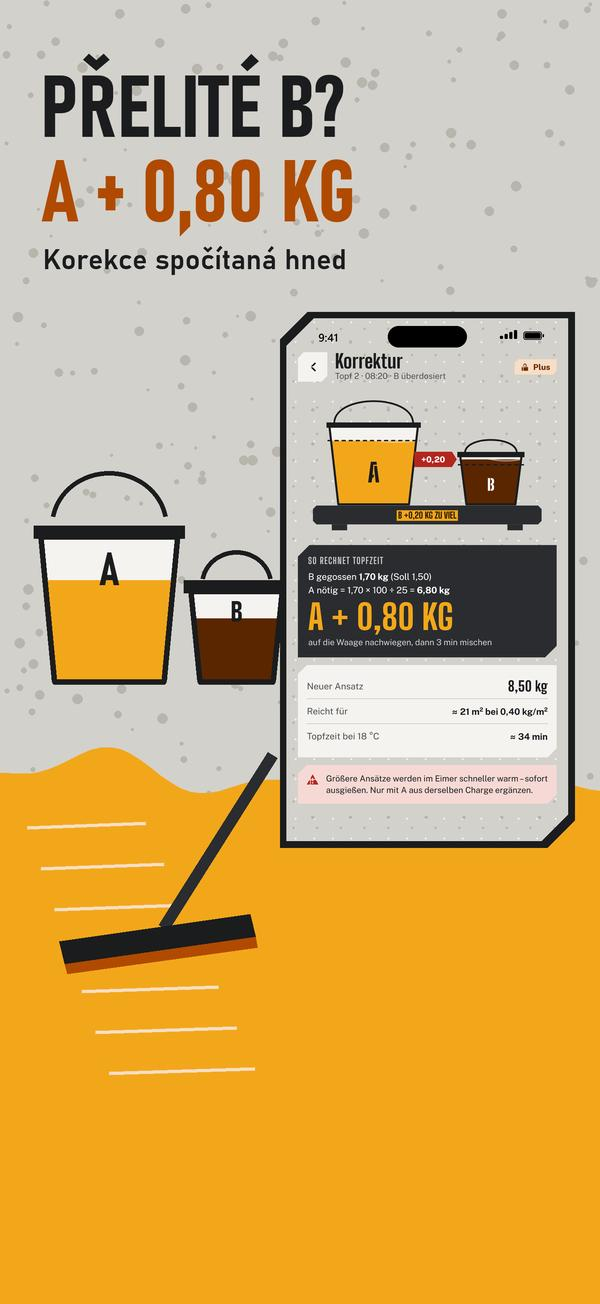
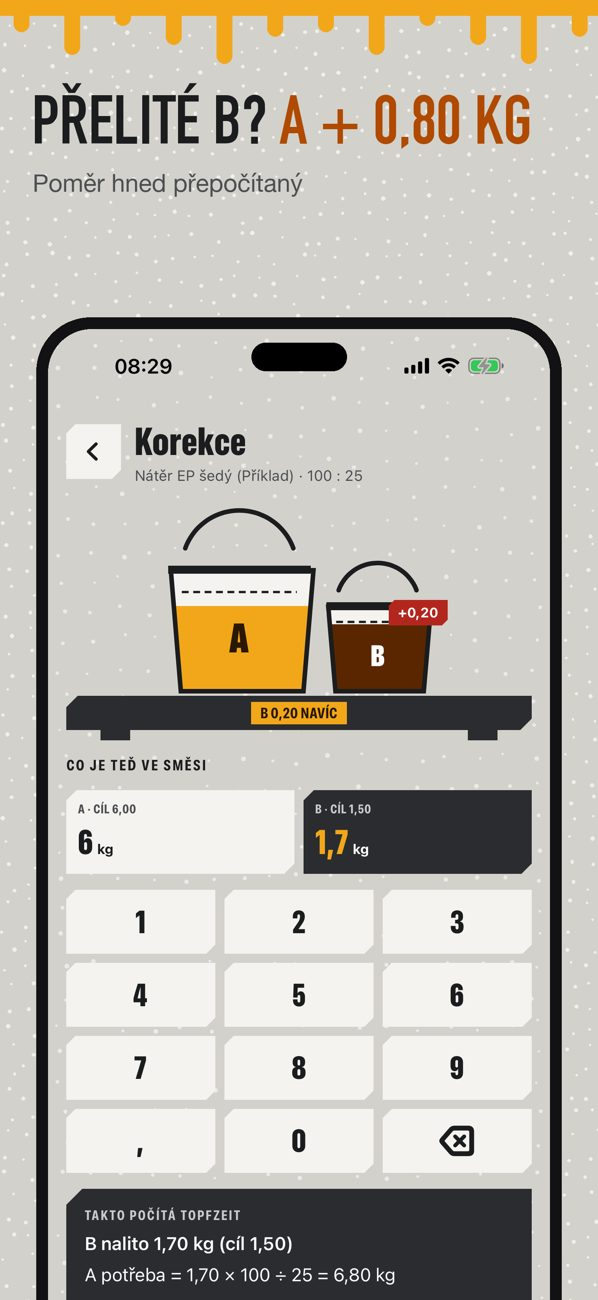
topfzeit-eu: pages match build 1.0.0 (no iCloud, no location/camera, no weather service)

diff --git a/topfzeit-eu/index.html b/topfzeit-eu/index.html
@@ -1,1 +1,1 @@
-<!doctype html><html lang='en'><head><meta charset='utf-8'><meta name='viewport' content='width=device-width,initial-scale=1'><title>Topfzeit – Privacy Policy</title><style>body{font:16px/1.6 -apple-system,system-ui,sans-serif;max-width:720px;margin:0 auto;padding:24px 16px;color:#1E1E1E;background:#F2EFE8;overflow-wrap:anywhere}a{color:#E2A400}h1{font-size:28px;line-height:1.15}h2{font-size:18px;margin-top:24px}h3{font-size:16px;margin-bottom:0}section{border-top:2px solid #1E1E1E;margin-top:32px}nav a{margin-right:12px}.btn{display:inline-block;background:#E2A400;color:#fff;text-decoration:none;padding:12px 20px;font-weight:700;border-radius:12px}.shots{display:flex;gap:12px;overflow-x:auto;margin:24px 0}.shots img{width:200px;flex:none;border-radius:14px}@media (prefers-color-scheme:dark){body{background:#121417;color:#ECEDEE}a{color:#8FC2E8}section{border-color:#3A4048}}</style></head><body><nav><a href='#en'>English</a><a href='#de'>Deutsch</a><a href='#nl'>Nederlands</a><a href='#pl'>Polski</a><a href='#cs'>Čeština</a></nav><section id='en' lang='en'><h1>Privacy Policy – Topfzeit</h1><p><em>2026-11-23</em></p><h2>Summary</h2><p>Topfzeit has no account and no server of ours. Your data stays on your device and in your private iCloud. The only data that can reach us is anonymous usage statistics, which you can switch off.</p><h2>Your data</h2><p>Your products you enter from data sheets, sites, mixes, measurements, photos and condition reports (PDF) are stored on your device and in your private iCloud (Apple CloudKit), so they sync between your own devices. If you share an item through iCloud, only the people you invite can see it. Nothing is uploaded to us. Deleting the app deletes the data on that device; iCloud data can be removed in the iOS Settings app.</p><h2>Permissions</h2><p>Location (optional, only while in use): to load the outdoor weather of the site from Apple WeatherKit; the location stays on the device and is not sent to us. Weather data: Apple Weather. Camera (optional): to read a mixing ratio from a product label (Live Text, the image is not stored) or to take a photo for the report. Notifications (optional): local timers for pot life and recoat windows; no push server.</p><h2>Usage statistics</h2><p>We use Google Analytics for Firebase (without the advertising identifier), provided by Google Ireland Ltd. It collects which screens and buttons are used, in-app purchase events, the approximate country/region Google derives from the IP address, and basic technical data (app and iOS version, device model). Events never contain site names, places, batch numbers, measurements or photos. The data is not linked to your identity and not used for tracking or advertising; Google processes it for us and keeps it for at most 14 months. Legal basis: our legitimate interest in improving the app (Art. 6(1)(f) GDPR); Google may process data in the USA under the EU-US Data Privacy Framework. See <a href='https://policies.google.com/privacy'>Google's Privacy Policy</a>. Switch it off in the app: Settings › Usage statistics.</p><h2>Purchases</h2><p>Topfzeit Plus is an auto-renewable subscription handled by Apple via the App Store. We receive no payment details; the app only asks Apple whether the purchase is active. See <a href='https://www.apple.com/legal/privacy/'>Apple's Privacy Policy</a>.</p><h2>Independence</h2><p>Topfzeit is an independent tool and contains no manufacturer data; the product's technical data sheet always prevails.</p><h2>Your rights and contact</h2><p>You can delete any item in the app at any time; deleting the app removes everything stored on the device. You can object to the usage statistics at any time by switching them off (Art. 21 GDPR). Questions: <a href='mailto:utqsall@gmail.com'>utqsall@gmail.com</a>. Controller: Mustafa Utku Bayık (BaytechBV).</p></section><section id='de' lang='de'><h1>Datenschutz – Topfzeit</h1><p><em>2026-11-23</em></p><p>Topfzeit hat kein Konto und keinen Server von uns. Deine Daten bleiben auf deinem Gerät und in deiner privaten iCloud (Apple). Wir nutzen Google Analytics für Firebase (ohne Werbe-ID) für anonyme Nutzungsstatistik: genutzte Bildschirme und Tasten, Kauf-Ereignisse, ungefähres Land/Region, technische Daten. Nicht mit dir verknüpft, kein Tracking, höchstens 14 Monate gespeichert; Rechtsgrundlage Art. 6 Abs. 1 lit. f DSGVO. Abschalten: Einstellungen › Nutzungsstatistik. Käufe laufen über Apple; wir erhalten keine Zahlungsdaten. Fragen: <a href='mailto:utqsall@gmail.com'>utqsall@gmail.com</a>.</p></section><section id='nl' lang='nl'><h1>Privacy – Topfzeit</h1><p><em>2026-11-23</em></p><p>Topfzeit heeft geen account en geen server van ons. Je gegevens blijven op je toestel en in je eigen iCloud (Apple). We gebruiken Google Analytics for Firebase (zonder advertentie-ID) voor anonieme gebruiksstatistiek: gebruikte schermen en knoppen, aankoopgebeurtenissen, globaal land/regio, technische gegevens. Niet aan jou gekoppeld, geen tracking, maximaal 14 maanden bewaard; grondslag art. 6 lid 1 sub f AVG. Uitzetten: Instellingen › Gebruiksstatistiek. Aankopen lopen via Apple; wij ontvangen geen betaalgegevens. Vragen: <a href='mailto:utqsall@gmail.com'>utqsall@gmail.com</a>.</p></section><section id='pl' lang='pl'><h1>Prywatność – Topfzeit</h1><p><em>2026-11-23</em></p><p>Topfzeit nie ma konta ani naszego serwera. Twoje dane zostają na urządzeniu i w Twoim prywatnym iCloud (Apple). Używamy Google Analytics for Firebase (bez identyfikatora reklamowego) do anonimowych statystyk: używane ekrany i przyciski, zdarzenia zakupu, przybliżony kraj/region, dane techniczne. Niepowiązane z Tobą, bez śledzenia, przechowywane maks. 14 miesięcy; podstawa art. 6 ust. 1 lit. f RODO. Wyłącz: Ustawienia › Statystyki użycia. Zakupy obsługuje Apple; nie otrzymujemy danych płatniczych. Pytania: <a href='mailto:utqsall@gmail.com'>utqsall@gmail.com</a>.</p></section><section id='cs' lang='cs'><h1>Ochrana soukromí – Topfzeit</h1><p><em>2026-11-23</em></p><p>Topfzeit nemá účet ani náš server. Tvoje data zůstávají v zařízení a ve tvém soukromém iCloudu (Apple). Používáme Google Analytics for Firebase (bez reklamního identifikátoru) pro anonymní statistiky: použité obrazovky a tlačítka, události nákupu, přibližná země/region, technická data. Nepropojeno s tebou, žádné sledování, uchování nejvýše 14 měsíců; právní základ čl. 6 odst. 1 písm. f GDPR. Vypnutí: Nastavení › Statistiky používání. Nákupy vyřizuje Apple; platební údaje nedostáváme. Dotazy: <a href='mailto:utqsall@gmail.com'>utqsall@gmail.com</a>.</p></section><p><a href='support/'>Support</a> · <a href='app/'>Topfzeit</a></p></body></html>
+<!doctype html><html lang='en'><head><meta charset='utf-8'><meta name='viewport' content='width=device-width,initial-scale=1'><title>Topfzeit – Privacy</title><style>body{font:16px/1.6 -apple-system,system-ui,sans-serif;max-width:720px;margin:0 auto;padding:24px 16px;color:#1B1C1E;background:#D3D1CB;overflow-wrap:anywhere}a{color:#8E3A00}h1{font:800 30px/1.1 'Arial Narrow',sans-serif;letter-spacing:.2px}h2{font-size:17px;margin-top:24px;text-transform:uppercase;letter-spacing:1px}section{background:#F4F3EF;padding:4px 18px 16px;margin-top:24px;clip-path:polygon(12px 0,100% 0,100% calc(100% - 12px),calc(100% - 12px) 100%,0 100%,0 12px)}nav a{margin-right:12px}.note{background:#F7DEC6;padding:10px 12px}.btn{display:inline-block;background:#B04A00;color:#fff;text-decoration:none;padding:12px 20px;font-weight:800}.shots{display:flex;gap:12px;overflow-x:auto;margin:16px 0}.shots img{width:200px;flex:none}@media (prefers-color-scheme:dark){body{background:#151617;color:#ECEBE6}section{background:#212326}a{color:#F5B866}.note{background:#4A2A10}}</style></head><body><nav><a href='#de'>Deutsch</a><a href='#nl'>Nederlands</a><a href='#pl'>Polski</a><a href='#cs'>Čeština</a><a href='#en'>English</a></nav><section id='de' lang='de'><h1>Datenschutzerklärung – Topfzeit</h1><p><em>Zuletzt aktualisiert: 2026-11-24</em></p><h2>Kurz gesagt</h2><p>Topfzeit hat kein Konto und keinen Server von uns. Produkte, Baustellen, Messungen, Töpfe, Fotos und Protokolle bleiben auf deinem iPhone. Bei uns kommt nur eine anonyme Nutzungsstatistik an, die du abschalten kannst.</p><h2>Deine Daten</h2><p>Alles, was du einträgst (Produktwerte aus Datenblättern, Baustellen, Messungen, Mischungen, Korrekturen, Fotos, Unterschrift, Protokolle), wird nur lokal auf dem iPhone gespeichert. Es gibt keine Synchronisierung, keine iCloud-Ablage durch die App und keinen Upload. Die App löscht die Daten, wenn du sie in den Einstellungen löschst oder die App entfernst. Ein PDF-Protokoll oder eine Einkaufsliste teilst nur du selbst.</p><h2>Berechtigungen</h2><p>Topfzeit fragt nicht nach Standort, Kamera, Kontakten oder Mediathek-Zugriff. Fotos für das Protokoll wählst du über die Systemauswahl (nur die gewählten Bilder werden übernommen). Mitteilungen (optional) sind lokale Erinnerungen für Topfzeit-Ende, Wartezeiten und neue Messungen; es gibt keinen Push-Server. Topfzeit nutzt keinen Wetterdienst.</p><h2>Nutzungsstatistik</h2><p>Wir nutzen Google Analytics for Firebase (ohne Werbe-ID), bereitgestellt von Google Ireland Ltd. Erfasst werden: eine zufällige App-Instanz-ID, welche Bildschirme und Schaltflächen genutzt werden, Schritte in der App (z. B. Topf gestartet, Messung gespeichert mit Ergebnis Freigabe/Stopp), Kauf-Ereignisse, der ungefähre Standort (Land/Region), den Google aus der IP-Adresse ableitet, sowie technische Daten (App- und iOS-Version, Gerätemodell). Die Ereignisse enthalten nie Baustellennamen, Orte, Chargen, Produktnamen, Messwerte oder Fotos. Die Daten sind nicht mit dir verknüpft und werden nicht für Tracking oder Werbung genutzt; Google speichert sie für uns höchstens 14 Monate. Rechtsgrundlage: berechtigtes Interesse an der Verbesserung der App (Art. 6 Abs. 1 lit. f DSGVO); Google kann Daten in den USA unter dem EU-US Data Privacy Framework verarbeiten. Abschalten: Einstellungen › Anonyme Nutzungsstatistik. <a href='https://policies.google.com/privacy'>Google</a></p><h2>Käufe</h2><p>Das Abo Topfzeit Plus wickelt Apple ab. Wir erhalten keine Zahlungsdaten; die App fragt bei Apple nur ab, ob ein Abo aktiv ist. Kündigen: Einstellungen › Apple-ID › Abonnements.</p><h2>Rechte und Kontakt</h2><p>Du kannst der Nutzungsstatistik jederzeit widersprechen, indem du sie abschaltest (Art. 21 DSGVO). Fragen: <a href='mailto:utqsall@gmail.com'>utqsall@gmail.com</a>. Verantwortlich: Mustafa Utku Bayık (BaytechBV).</p><p class='note'>Topfzeit enthält keine Herstellerdaten. Das technische Datenblatt und das Sicherheitsdatenblatt deines Produkts haben immer Vorrang; die Korrektur ist reine Verhältnisrechnung.</p></section><section id='nl' lang='nl'><h1>Privacybeleid – Topfzeit</h1><p><em>Laatst bijgewerkt: 2026-11-24</em></p><h2>In het kort</h2><p>Topfzeit heeft geen account en geen server van ons. Producten, projecten, metingen, potten, foto's en rapporten blijven op je iPhone. Bij ons komen alleen anonieme gebruiksstatistieken aan, die je kunt uitzetten.</p><h2>Je gegevens</h2><p>Alles wat je invoert (productwaarden uit technische bladen, projecten, metingen, mengsels, correcties, foto's, handtekening, rapporten) wordt alleen lokaal op de iPhone bewaard. Er is geen synchronisatie, geen iCloud-opslag door de app en geen upload. Een pdf-rapport of boodschappenlijst deel alleen jij.</p><h2>Toestemmingen</h2><p>Topfzeit vraagt geen toegang tot locatie, camera, contacten of fotobibliotheek. Foto's voor het rapport kies je via de systeemkiezer. Meldingen (optioneel) zijn lokale herinneringen voor einde verwerkingstijd, wachttijden en nieuwe metingen; er is geen pushserver. Topfzeit gebruikt geen weerdienst.</p><h2>Gebruiksstatistieken</h2><p>We gebruiken Google Analytics for Firebase (zonder advertentie-ID), geleverd door Google Ireland Ltd. Het verzamelt: een willekeurige app-instantie-ID, welke schermen en knoppen worden gebruikt, stappen in de app (bijv. pot gestart, meting bewaard met resultaat), aankoopgebeurtenissen, de geschatte locatie (land/regio) die Google afleidt uit het IP-adres, en technische gegevens (app- en iOS-versie, toestelmodel). Gebeurtenissen bevatten nooit projectnamen, plaatsen, charges, productnamen, meetwaarden of foto's. De gegevens zijn niet aan jou gekoppeld en worden niet gebruikt voor tracking of advertenties; Google bewaart ze voor ons maximaal 14 maanden. Grondslag: gerechtvaardigd belang (art. 6 lid 1 sub f AVG); Google kan gegevens in de VS verwerken onder het EU-VS Data Privacy Framework. Uitzetten: Instellingen › Anonieme gebruiksstatistiek. <a href='https://policies.google.com/privacy'>Google</a></p><h2>Aankopen</h2><p>Het abonnement Topfzeit Plus loopt via Apple. Wij ontvangen geen betaalgegevens. Opzeggen: Instellingen › Apple ID › Abonnementen.</p><h2>Rechten en contact</h2><p>Je kunt altijd bezwaar maken tegen de statistieken door ze uit te zetten (art. 21 AVG). Vragen: <a href='mailto:utqsall@gmail.com'>utqsall@gmail.com</a>. Verwerkingsverantwoordelijke: Mustafa Utku Bayık (BaytechBV).</p><p class='note'>Topfzeit bevat geen fabrikantgegevens. Het technisch blad en het veiligheidsinformatieblad van je product gaan altijd voor; de correctie is alleen verhoudingsrekenen.</p></section><section id='pl' lang='pl'><h1>Polityka prywatności – Topfzeit</h1><p><em>Ostatnia aktualizacja: 2026-11-24</em></p><h2>W skrócie</h2><p>Topfzeit nie ma konta ani naszego serwera. Produkty, budowy, pomiary, mieszanki, zdjęcia i protokoły zostają na twoim iPhonie. Do nas trafiają tylko anonimowe statystyki, które możesz wyłączyć.</p><h2>Twoje dane</h2><p>Wszystko, co wpisujesz (wartości z kart technicznych, budowy, pomiary, mieszanki, korekty, zdjęcia, podpis, protokoły), jest zapisywane tylko lokalnie na iPhonie. Brak synchronizacji, brak zapisu w iCloud przez aplikację i brak wysyłania. Protokół PDF lub listę zakupów udostępniasz tylko ty.</p><h2>Uprawnienia</h2><p>Topfzeit nie prosi o lokalizację, aparat, kontakty ani dostęp do biblioteki zdjęć. Zdjęcia do protokołu wybierasz systemowym selektorem. Powiadomienia (opcjonalnie) to lokalne przypomnienia o końcu czasu przydatności, przerwach i pomiarach; brak serwera push. Topfzeit nie korzysta z serwisu pogodowego.</p><h2>Statystyki użycia</h2><p>Korzystamy z Google Analytics for Firebase (bez identyfikatora reklamowego), dostarczanego przez Google Ireland Ltd. Zbierane są: losowy identyfikator instancji aplikacji, używane ekrany i przyciski, kroki w aplikacji (np. start mieszanki, zapis pomiaru z wynikiem), zdarzenia zakupów, przybliżona lokalizacja (kraj/region) z adresu IP oraz dane techniczne (wersja aplikacji i iOS, model urządzenia). Zdarzenia nigdy nie zawierają nazw budów, miejsc, partii, nazw produktów, wartości pomiarów ani zdjęć. Dane nie są powiązane z tobą i nie służą do śledzenia ani reklam; Google przechowuje je maksymalnie 14 miesięcy. Podstawa: prawnie uzasadniony interes (art. 6 ust. 1 lit. f RODO); Google może przetwarzać dane w USA w ramach EU-US Data Privacy Framework. Wyłączenie: Ustawienia › Anonimowe statystyki użycia. <a href='https://policies.google.com/privacy'>Google</a></p><h2>Zakupy</h2><p>Subskrypcję Topfzeit Plus obsługuje Apple. Nie otrzymujemy danych płatniczych. Anulowanie: Ustawienia › Apple ID › Subskrypcje.</p><h2>Prawa i kontakt</h2><p>Możesz w każdej chwili sprzeciwić się statystykom, wyłączając je (art. 21 RODO). Pytania: <a href='mailto:utqsall@gmail.com'>utqsall@gmail.com</a>. Administrator: Mustafa Utku Bayık (BaytechBV).</p><p class='note'>Topfzeit nie zawiera danych producentów. Karta techniczna i karta charakterystyki produktu mają zawsze pierwszeństwo; korekta to wyłącznie rachunek proporcji.</p></section><section id='cs' lang='cs'><h1>Zásady ochrany soukromí – Topfzeit</h1><p><em>Naposledy aktualizováno: 2026-11-24</em></p><h2>Stručně</h2><p>Topfzeit nemá účet ani náš server. Produkty, stavby, měření, směsi, fotky a protokoly zůstávají v tvém iPhonu. K nám se dostává jen anonymní statistika používání, kterou můžeš vypnout.</p><h2>Tvá data</h2><p>Vše, co zadáš (hodnoty z technických listů, stavby, měření, směsi, korekce, fotky, podpis, protokoly), se ukládá jen místně v iPhonu. Žádná synchronizace, žádné ukládání do iCloudu aplikací a žádné nahrávání. Protokol PDF nebo nákupní seznam sdílíš jen ty.</p><h2>Oprávnění</h2><p>Topfzeit nežádá o polohu, fotoaparát, kontakty ani přístup ke knihovně fotek. Fotky do protokolu vybíráš systémovým výběrem. Oznámení (volitelná) jsou místní připomínky konce zpracovatelnosti, čekacích dob a měření; žádný push server. Topfzeit nepoužívá službu počasí.</p><h2>Statistika používání</h2><p>Používáme Google Analytics for Firebase (bez reklamního identifikátoru) od Google Ireland Ltd. Sbírá se: náhodný identifikátor instance aplikace, používané obrazovky a tlačítka, kroky v aplikaci (např. spuštění směsi, uložení měření s výsledkem), události nákupů, přibližná poloha (země/region) odvozená z IP adresy a technická data (verze aplikace a iOS, model zařízení). Události nikdy neobsahují názvy staveb, místa, šarže, názvy produktů, naměřené hodnoty ani fotky. Data nejsou spojena s tebou a neslouží ke sledování ani reklamě; Google je pro nás uchovává nejvýše 14 měsíců. Právní základ: oprávněný zájem (čl. 6 odst. 1 písm. f GDPR); Google může data zpracovávat v USA v rámci EU-US Data Privacy Framework. Vypnutí: Nastavení › Anonymní statistika používání. <a href='https://policies.google.com/privacy'>Google</a></p><h2>Nákupy</h2><p>Předplatné Topfzeit Plus vyřizuje Apple. Nedostáváme platební údaje. Zrušení: Nastavení › Apple ID › Předplatná.</p><h2>Práva a kontakt</h2><p>Proti statistice můžeš kdykoli vznést námitku jejím vypnutím (čl. 21 GDPR). Dotazy: <a href='mailto:utqsall@gmail.com'>utqsall@gmail.com</a>. Správce: Mustafa Utku Bayık (BaytechBV).</p><p class='note'>Topfzeit neobsahuje data výrobců. Technický a bezpečnostní list tvého produktu mají vždy přednost; korekce je jen výpočet poměru.</p></section><section id='en' lang='en'><h1>Privacy Policy – Topfzeit</h1><p><em>Last updated: 2026-11-24</em></p><h2>Summary</h2><p>Topfzeit has no account and no server of ours. Products, sites, measurements, pots, photos and protocols stay on your iPhone. The only data that reaches us is anonymous usage statistics, which you can switch off.</p><h2>Your data</h2><p>Everything you enter (product values from data sheets, sites, measurements, mixes, corrections, photos, signature, protocols) is stored only locally on the iPhone. There is no sync, no iCloud storage by the app and no upload. Only you share a PDF protocol or shopping list.</p><h2>Permissions</h2><p>Topfzeit does not ask for location, camera, contacts or photo library access. You pick protocol photos with the system picker. Notifications (optional) are local reminders for pot-life end, recoat windows and re-measuring; there is no push server. Topfzeit uses no weather service.</p><h2>Usage statistics</h2><p>We use Google Analytics for Firebase (without the advertising identifier), provided by Google Ireland Ltd. It collects: a random app instance ID, which screens and buttons are used, steps in the app (e.g. pot started, measurement saved with result clear/stop), purchase events, the approximate location (country/region) Google derives from the IP address, and technical data (app and iOS version, device model). Events never contain site names, places, batches, product names, measured values or photos. The data is not linked to you and not used for tracking or advertising; Google keeps it for us for at most 14 months. Legal basis: legitimate interest (Art. 6(1)(f) GDPR); Google may process data in the USA under the EU-US Data Privacy Framework. Switch off: Settings › Anonymous usage statistics. <a href='https://policies.google.com/privacy'>Google</a></p><h2>Purchases</h2><p>The Topfzeit Plus subscription is handled by Apple. We receive no payment details. Cancel: Settings › Apple ID › Subscriptions.</p><h2>Rights and contact</h2><p>You can object to the statistics at any time by switching them off (Art. 21 GDPR). Questions: <a href='mailto:utqsall@gmail.com'>utqsall@gmail.com</a>. Controller: Mustafa Utku Bayık (BaytechBV).</p><p class='note'>Topfzeit contains no manufacturer data. Your product's technical data sheet and safety data sheet always take precedence; the correction is ratio arithmetic only.</p></section></body></html>

diff --git a/topfzeit-eu/app/index.html b/topfzeit-eu/app/index.html
@@ -1,1 +1,1 @@
-<!doctype html><html lang='de'><head><meta charset='utf-8'><meta name='viewport' content='width=device-width,initial-scale=1'><title>Topfzeit – Bodenbeschichtung</title><meta name='description' content='Harz und Härter auf das Gramm, Korrektur bei zu viel Härter, Taupunkt + 3 K geprüft und ein Protokoll als PDF – für Beschichter und Bodenleger auf der Baustelle.'><style>body{font:16px/1.6 -apple-system,system-ui,sans-serif;max-width:720px;margin:0 auto;padding:24px 16px;color:#1E1E1E;background:#F2EFE8;overflow-wrap:anywhere}a{color:#E2A400}h1{font-size:28px;line-height:1.15}h2{font-size:18px;margin-top:24px}h3{font-size:16px;margin-bottom:0}section{border-top:2px solid #1E1E1E;margin-top:32px}nav a{margin-right:12px}.btn{display:inline-block;background:#E2A400;color:#fff;text-decoration:none;padding:12px 20px;font-weight:700;border-radius:12px}.shots{display:flex;gap:12px;overflow-x:auto;margin:24px 0}.shots img{width:200px;flex:none;border-radius:14px}@media (prefers-color-scheme:dark){body{background:#121417;color:#ECEDEE}a{color:#8FC2E8}section{border-color:#3A4048}}</style></head><body><nav><a href='#de'>Deutsch</a><a href='#nl'>Nederlands</a><a href='#pl'>Polski</a><a href='#cs'>Čeština</a></nav><section id='de' lang='de'><h1>Topfzeit – Bodenbeschichtung</h1><p><strong>Mischen, Taupunkt, Protokoll</strong></p><p>Topfzeit ist das Werkzeug für Epoxid-, PU- und 3K-Bodenbeschichtungen. Du trägst die Werte aus deinem Datenblatt ein – Mischungsverhältnis, Topfzeit, Verbrauch, Wartezeiten – und Topfzeit rechnet auf der Baustelle mit: wie viel A und B für das ganze Gebinde oder eine Teilmenge, was zu tun ist, wenn eine Komponente überdosiert wurde, ob die Oberfläche mindestens 3 K über dem Taupunkt liegt und wann die nächste Schicht kommen darf.</p><div class='shots'><img src='de-1.jpg' alt='Topfzeit 1' loading='lazy'><img src='de-2.jpg' alt='Topfzeit 2' loading='lazy'><img src='de-3.jpg' alt='Topfzeit 3' loading='lazy'></div><ul><li>Mischen nach Gewicht oder Volumen, ganzes Gebinde oder Teilmenge, auch A : B : C</li><li>Korrektur: zu viel B gegossen? Topfzeit sagt, wie viel A dazukommt</li><li>Topfzeit-Timer mit Live-Aktivität und Temperatur-Faustregel</li><li>Taupunkt nach Magnus: Luft, Feuchte, Oberfläche, Abstand ≥ 3 K</li><li>Außenwetter und 24-Stunden-Fenster für unbeheizte Hallen und Außenflächen</li><li>Verbrauch je Schicht: kg/m², Gebinde, Quarzsand, Nassfilm</li><li>Wartezeiten zwischen den Schichten mit Wecker</li><li>Ausführungsprotokoll als PDF mit Bedingungen, Chargen und Fotos</li></ul><p><strong>Bald im App Store</strong></p><p><a href='../support/'>Hilfe</a> · <a href='../'>Datenschutz</a></p></section><section id='nl' lang='nl'><h1>Topfzeit – Vloercoating</h1><p><strong>Mengen, dauwpunt en rapport</strong></p><p>Topfzeit is het gereedschap voor epoxy-, PU- en 3K-vloercoatings. Je vult de waarden uit je technisch blad in – mengverhouding, verwerkingstijd, verbruik, wachttijden – en Topfzeit rekent op de bouwplaats mee: hoeveel A en B voor de hele verpakking of een deel, wat te doen als een component te veel is gegoten, of de ondergrond minstens 3 K boven het dauwpunt ligt en wanneer de volgende laag mag.</p><div class='shots'><img src='nl-1.jpg' alt='Topfzeit 1' loading='lazy'><img src='nl-2.jpg' alt='Topfzeit 2' loading='lazy'><img src='nl-3.jpg' alt='Topfzeit 3' loading='lazy'></div><ul><li>Mengen op gewicht of volume, hele verpakking of deel, ook A : B : C</li><li>Correctie: te veel B gegoten? Topfzeit zegt hoeveel A erbij moet</li><li>Verwerkingstimer met live-activiteit en vuistregel voor temperatuur</li><li>Dauwpunt volgens Magnus: lucht, vocht, ondergrond, marge ≥ 3 K</li><li>Buitenweer en 24-uursvenster voor onverwarmde hallen en buitenvloeren</li><li>Verbruik per laag: kg/m², verpakkingen, kwartszand, natte laag</li><li>Wachttijden tussen lagen met wekker</li><li>Uitvoeringsrapport als pdf met omstandigheden, charges en foto&#x27;s</li></ul><p><strong>Binnenkort in de App Store</strong></p><p><a href='../support/'>Hulp</a> · <a href='../'>Privacy</a></p></section><section id='pl' lang='pl'><h1>Topfzeit – posadzki żywiczne</h1><p><strong>Mieszanie, punkt rosy, raport</strong></p><p>Topfzeit to narzędzie do posadzek epoksydowych, poliuretanowych i 3K. Wpisujesz wartości z karty technicznej – proporcje, czas przydatności, zużycie, przerwy technologiczne – a Topfzeit liczy na budowie: ile A i B na całe opakowanie lub część, co zrobić, gdy wlano za dużo jednego składnika, czy podłoże jest co najmniej 3 K powyżej punktu rosy i kiedy można nałożyć kolejną warstwę.</p><div class='shots'><img src='pl-1.jpg' alt='Topfzeit 1' loading='lazy'><img src='pl-2.jpg' alt='Topfzeit 2' loading='lazy'><img src='pl-3.jpg' alt='Topfzeit 3' loading='lazy'></div><ul><li>Mieszanie wagowo lub objętościowo, całe opakowanie lub część, także A : B : C</li><li>Korekta: za dużo B? Topfzeit podaje, ile A dodać</li><li>Minutnik czasu przydatności z aktywnością na żywo i zasadą temperatury</li><li>Punkt rosy wg Magnusa: powietrze, wilgotność, podłoże, odstęp ≥ 3 K</li><li>Pogoda na zewnątrz i okno 24 h dla nieogrzewanych hal i powierzchni zewnętrznych</li><li>Zużycie na warstwę: kg/m², opakowania, piasek kwarcowy, mokra warstwa</li><li>Przerwy między warstwami z przypomnieniem</li><li>Protokół wykonania w PDF z warunkami, partiami i zdjęciami</li></ul><p><strong>Wkrótce w App Store</strong></p><p><a href='../support/'>Pomoc</a> · <a href='../'>Prywatność</a></p></section><section id='cs' lang='cs'><h1>Topfzeit – lité podlahy</h1><p><strong>Míchání, rosný bod, protokol</strong></p><p>Topfzeit je nástroj pro epoxidové, polyuretanové a 3K podlahy. Zadáš hodnoty z technického listu – mísicí poměr, dobu zpracovatelnosti, spotřebu, čekací doby – a Topfzeit počítá na stavbě s tebou: kolik A a B na celé balení nebo jeho část, co dělat, když se přelije jedna složka, zda je podklad aspoň 3 K nad rosným bodem a kdy smí přijít další vrstva.</p><div class='shots'><img src='cs-1.jpg' alt='Topfzeit 1' loading='lazy'><img src='cs-2.jpg' alt='Topfzeit 2' loading='lazy'><img src='cs-3.jpg' alt='Topfzeit 3' loading='lazy'></div><ul><li>Míchání podle hmotnosti nebo objemu, celé balení nebo část, i A : B : C</li><li>Korekce: přelité B? Topfzeit řekne, kolik A přidat</li><li>Časovač doby zpracovatelnosti s živou aktivitou a teplotním pravidlem</li><li>Rosný bod podle Magnuse: vzduch, vlhkost, podklad, odstup ≥ 3 K</li><li>Venkovní počasí a 24hodinové okno pro nevytápěné haly a venkovní plochy</li><li>Spotřeba na vrstvu: kg/m², balení, křemičitý písek, mokrá vrstva</li><li>Čekací doby mezi vrstvami s budíkem</li><li>Protokol o provedení v PDF s podmínkami, šaržemi a fotkami</li></ul><p><strong>Brzy v App Storu</strong></p><p><a href='../support/'>Podpora</a> · <a href='../'>Soukromí</a></p></section></body></html>
+<!doctype html><html lang='de'><head><meta charset='utf-8'><meta name='viewport' content='width=device-width,initial-scale=1'><title>Topfzeit – Bodenbeschichtung</title><meta name='apple-itunes-app' content='app-id=6838480939'><style>body{font:16px/1.6 -apple-system,system-ui,sans-serif;max-width:720px;margin:0 auto;padding:24px 16px;color:#1B1C1E;background:#D3D1CB;overflow-wrap:anywhere}a{color:#8E3A00}h1{font:800 30px/1.1 'Arial Narrow',sans-serif;letter-spacing:.2px}h2{font-size:17px;margin-top:24px;text-transform:uppercase;letter-spacing:1px}section{background:#F4F3EF;padding:4px 18px 16px;margin-top:24px;clip-path:polygon(12px 0,100% 0,100% calc(100% - 12px),calc(100% - 12px) 100%,0 100%,0 12px)}nav a{margin-right:12px}.note{background:#F7DEC6;padding:10px 12px}.btn{display:inline-block;background:#B04A00;color:#fff;text-decoration:none;padding:12px 20px;font-weight:800}.shots{display:flex;gap:12px;overflow-x:auto;margin:16px 0}.shots img{width:200px;flex:none}@media (prefers-color-scheme:dark){body{background:#151617;color:#ECEBE6}section{background:#212326}a{color:#F5B866}.note{background:#4A2A10}}</style></head><body><nav><a href='#de'>Deutsch</a><a href='#nl'>Nederlands</a><a href='#pl'>Polski</a><a href='#cs'>Čeština</a><a href='#en'>English</a></nav><section id='de' lang='de'><h1>Topfzeit – Bodenbeschichtung</h1><p><strong>Mischen, Taupunkt, Protokoll</strong></p><p>Harz und Härter auf das Gramm, Nachdosieren bei zu viel Härter, Taupunkt + 3 K aus deiner Messung, Wartezeiten aus deinem Datenblatt und ein Ausführungsprotokoll als PDF – für Beschichter und Bodenleger.</p><div class='shots'><img src='de-1.jpg' alt='Topfzeit'><img src='de-2.jpg' alt='Topfzeit'><img src='de-3.jpg' alt='Topfzeit'></div><p><a class='btn' href='https://apps.apple.com/app/id6838480939?pt=322891&ct=landing'>Im App Store laden</a></p><p class='note'>Topfzeit enthält keine Herstellerdaten. Das technische Datenblatt und das Sicherheitsdatenblatt deines Produkts haben immer Vorrang; die Korrektur ist reine Verhältnisrechnung.</p><p><a href='../'>Datenschutz</a> · <a href='../support/'>Support</a></p></section><section id='nl' lang='nl'><h1>Topfzeit – Vloercoating</h1><p><strong>Mengen, dauwpunt en rapport</strong></p><p>Hars en verharder op de gram, bijvullen bij te veel verharder, dauwpunt + 3 K uit je meting, wachttijden uit je technisch blad en een uitvoeringsrapport als pdf – voor vloerenleggers.</p><div class='shots'><img src='nl-1.jpg' alt='Topfzeit'><img src='nl-2.jpg' alt='Topfzeit'><img src='nl-3.jpg' alt='Topfzeit'></div><p><a class='btn' href='https://apps.apple.com/app/id6838480939?pt=322891&ct=landing'>Download in de App Store</a></p><p class='note'>Topfzeit bevat geen fabrikantgegevens. Het technisch blad en het veiligheidsinformatieblad van je product gaan altijd voor; de correctie is alleen verhoudingsrekenen.</p><p><a href='../'>Privacy</a> · <a href='../support/'>Support</a></p></section><section id='pl' lang='pl'><h1>Topfzeit – posadzki żywiczne</h1><p><strong>Mieszanie, punkt rosy, raport</strong></p><p>Żywica i utwardzacz co do grama, korekta przy nadmiarze utwardzacza, punkt rosy + 3 K z twojego pomiaru, przerwy z karty technicznej i protokół wykonania w PDF – dla posadzkarzy.</p><div class='shots'><img src='pl-1.jpg' alt='Topfzeit'><img src='pl-2.jpg' alt='Topfzeit'><img src='pl-3.jpg' alt='Topfzeit'></div><p><a class='btn' href='https://apps.apple.com/app/id6838480939?pt=322891&ct=landing'>Pobierz z App Store</a></p><p class='note'>Topfzeit nie zawiera danych producentów. Karta techniczna i karta charakterystyki produktu mają zawsze pierwszeństwo; korekta to wyłącznie rachunek proporcji.</p><p><a href='../'>Prywatność</a> · <a href='../support/'>Pomoc</a></p></section><section id='cs' lang='cs'><h1>Topfzeit – lité podlahy</h1><p><strong>Míchání, rosný bod, protokol</strong></p><p>Pryskyřice a tužidlo na gram, korekce při přelití tužidla, rosný bod + 3 K z tvého měření, čekací doby z technického listu a protokol o provedení v PDF – pro podlaháře.</p><div class='shots'><img src='cs-1.jpg' alt='Topfzeit'><img src='cs-2.jpg' alt='Topfzeit'><img src='cs-3.jpg' alt='Topfzeit'></div><p><a class='btn' href='https://apps.apple.com/app/id6838480939?pt=322891&ct=landing'>Stáhnout v App Store</a></p><p class='note'>Topfzeit neobsahuje data výrobců. Technický a bezpečnostní list tvého produktu mají vždy přednost; korekce je jen výpočet poměru.</p><p><a href='../'>Soukromí</a> · <a href='../support/'>Podpora</a></p></section><section id='en' lang='en'><h1>Topfzeit – floor coating</h1><p><strong>Mixing, dew point, protocol</strong></p><p>Resin and hardener to the gram, top-up maths when too much hardener went in, dew point + 3 K from your own measurement, recoat windows from your data sheet and an execution protocol as PDF – for floor coaters.</p><div class='shots'><img src='de-1.jpg' alt='Topfzeit'><img src='de-2.jpg' alt='Topfzeit'><img src='de-3.jpg' alt='Topfzeit'></div><p><a class='btn' href='https://apps.apple.com/app/id6838480939?pt=322891&ct=landing'>Download on the App Store</a></p><p class='note'>Topfzeit contains no manufacturer data. Your product's technical data sheet and safety data sheet always take precedence; the correction is ratio arithmetic only.</p><p><a href='../'>Privacy</a> · <a href='../support/'>Support</a></p></section></body></html>

diff --git a/topfzeit-eu/support/index.html b/topfzeit-eu/support/index.html
@@ -1,1 +1,1 @@
-<!doctype html><html lang='en'><head><meta charset='utf-8'><meta name='viewport' content='width=device-width,initial-scale=1'><title>Topfzeit – Support</title><style>body{font:16px/1.6 -apple-system,system-ui,sans-serif;max-width:720px;margin:0 auto;padding:24px 16px;color:#1E1E1E;background:#F2EFE8;overflow-wrap:anywhere}a{color:#E2A400}h1{font-size:28px;line-height:1.15}h2{font-size:18px;margin-top:24px}h3{font-size:16px;margin-bottom:0}section{border-top:2px solid #1E1E1E;margin-top:32px}nav a{margin-right:12px}.btn{display:inline-block;background:#E2A400;color:#fff;text-decoration:none;padding:12px 20px;font-weight:700;border-radius:12px}.shots{display:flex;gap:12px;overflow-x:auto;margin:24px 0}.shots img{width:200px;flex:none;border-radius:14px}@media (prefers-color-scheme:dark){body{background:#121417;color:#ECEDEE}a{color:#8FC2E8}section{border-color:#3A4048}}</style></head><body><nav><a href='#en'>English</a><a href='#de'>Deutsch</a><a href='#nl'>Nederlands</a><a href='#pl'>Polski</a><a href='#cs'>Čeština</a></nav><section id='en' lang='en'><h1>Support – Topfzeit</h1><p>Questions or problems? Email <a href='mailto:utqsall@gmail.com'>utqsall@gmail.com</a>. We usually reply within 2 business days.</p><h3>Does Topfzeit know my product?</h3><p>No. You enter mixing ratio, pot life, consumption and recoat times from your own technical data sheet. Topfzeit calculates with those values.</p><h3>How is the dew point check done?</h3><p>Magnus formula from air temperature and relative humidity; the surface must be at least 3 K above the dew point.</p><h3>How do I restore or cancel Plus?</h3><p>Restore: Settings › Restore purchases, with the same Apple ID. Cancel: Settings app › your name › Subscriptions, at least 24 hours before renewal.</p><h3>Where is my data?</h3><p>On your device and in your private iCloud. There is no account and no server of ours.</p></section><section id='de' lang='de'><h1>Hilfe – Topfzeit</h1><p>Fragen oder Probleme? Schreib an <a href='mailto:utqsall@gmail.com'>utqsall@gmail.com</a>.</p><p>Wiederherstellen: Einstellungen › Käufe wiederherstellen, mit derselben Apple-ID. Abo kündigen: Einstellungen-App › dein Name › Abonnements, spätestens 24 Stunden vor der Verlängerung.</p></section><section id='nl' lang='nl'><h1>Hulp – Topfzeit</h1><p>Vragen of problemen? Mail naar <a href='mailto:utqsall@gmail.com'>utqsall@gmail.com</a>.</p><p>Herstellen: Instellingen › Aankopen herstellen, met dezelfde Apple ID. Abonnement opzeggen: app Instellingen › je naam › Abonnementen, minstens 24 uur voor verlenging.</p></section><section id='pl' lang='pl'><h1>Pomoc – Topfzeit</h1><p>Pytania lub problemy? Napisz na <a href='mailto:utqsall@gmail.com'>utqsall@gmail.com</a>.</p><p>Przywracanie: Ustawienia › Przywróć zakupy, z tym samym Apple ID. Rezygnacja z subskrypcji: aplikacja Ustawienia › Twoje imię › Subskrypcje, najpóźniej 24 godziny przed odnowieniem.</p></section><section id='cs' lang='cs'><h1>Podpora – Topfzeit</h1><p>Dotazy nebo potíže? Napiš na <a href='mailto:utqsall@gmail.com'>utqsall@gmail.com</a>.</p><p>Obnovení: Nastavení › Obnovit nákupy, se stejným Apple ID. Zrušení předplatného: aplikace Nastavení › tvoje jméno › Předplatná, nejpozději 24 hodin před obnovením.</p></section><p><a href='../'>Privacy</a> · <a href='../app/'>Topfzeit</a></p></body></html>
+<!doctype html><html lang='en'><head><meta charset='utf-8'><meta name='viewport' content='width=device-width,initial-scale=1'><title>Topfzeit – Support</title><style>body{font:16px/1.6 -apple-system,system-ui,sans-serif;max-width:720px;margin:0 auto;padding:24px 16px;color:#1B1C1E;background:#D3D1CB;overflow-wrap:anywhere}a{color:#8E3A00}h1{font:800 30px/1.1 'Arial Narrow',sans-serif;letter-spacing:.2px}h2{font-size:17px;margin-top:24px;text-transform:uppercase;letter-spacing:1px}section{background:#F4F3EF;padding:4px 18px 16px;margin-top:24px;clip-path:polygon(12px 0,100% 0,100% calc(100% - 12px),calc(100% - 12px) 100%,0 100%,0 12px)}nav a{margin-right:12px}.note{background:#F7DEC6;padding:10px 12px}.btn{display:inline-block;background:#B04A00;color:#fff;text-decoration:none;padding:12px 20px;font-weight:800}.shots{display:flex;gap:12px;overflow-x:auto;margin:16px 0}.shots img{width:200px;flex:none}@media (prefers-color-scheme:dark){body{background:#151617;color:#ECEBE6}section{background:#212326}a{color:#F5B866}.note{background:#4A2A10}}</style></head><body><nav><a href='#de'>Deutsch</a><a href='#nl'>Nederlands</a><a href='#pl'>Polski</a><a href='#cs'>Čeština</a><a href='#en'>English</a></nav><section id='de' lang='de'><h1>Support – Topfzeit</h1><p>Fragen, Fehler oder Wünsche? Schreib uns: <a href='mailto:utqsall@gmail.com'>utqsall@gmail.com</a></p><h2>Woher kommen Mischungsverhältnis und Topfzeit?</h2><p>Ausschließlich aus deinem Datenblatt. Du trägst die Werte beim Anlegen eines Produkts ein; Topfzeit enthält keine Herstellerdaten. Als „Beispiel“ markierte Produkte sind erfundene Demowerte.</p><h2>Wie rechnet die Korrektur?</h2><p>Die Komponente mit dem größten Anteil pro Verhältnisteil gibt den neuen Maßstab vor; die anderen werden darauf ergänzt. Das ist reine Verhältnisrechnung – ob ein korrigierter Ansatz einwandfrei aushärtet, entscheiden Datenblatt und Hersteller.</p><h2>Wie wird der Taupunkt berechnet?</h2><p>Mit der Magnus-Formel (a = 17,62, b = 243,12 °C) aus Lufttemperatur und relativer Feuchte. Die Oberfläche sollte mindestens 3 K darüber liegen; dein Datenblatt kann mehr verlangen.</p><h2>Wie stelle ich mein Abo wieder her?</h2><p>Einstellungen › Wiederherstellen oder auf der Plus-Seite „Käufe wiederherstellen“.</p><h2>Wie kündige ich?</h2><p>iOS-Einstellungen › Apple-ID › Abonnements › Topfzeit Plus.</p><p class='note'>Topfzeit enthält keine Herstellerdaten. Das technische Datenblatt und das Sicherheitsdatenblatt deines Produkts haben immer Vorrang; die Korrektur ist reine Verhältnisrechnung.</p><p><a href='../'>Datenschutz</a></p></section><section id='nl' lang='nl'><h1>Support – Topfzeit</h1><p>Vragen, fouten of wensen? Mail ons: <a href='mailto:utqsall@gmail.com'>utqsall@gmail.com</a></p><h2>Waar komen mengverhouding en verwerkingstijd vandaan?</h2><p>Alleen uit je technisch blad. Topfzeit bevat geen fabrikantgegevens; producten met „Voorbeeld” zijn verzonnen demowaarden.</p><h2>Hoe rekent de correctie?</h2><p>De component met het grootste aandeel per verhoudingsdeel bepaalt de nieuwe schaal; de andere worden aangevuld. Alleen verhoudingsrekenen – of het mengsel goed uithardt, bepalen technisch blad en fabrikant.</p><h2>Hoe wordt het dauwpunt berekend?</h2><p>Met de Magnus-formule (a = 17,62, b = 243,12 °C). De ondergrond moet minstens 3 K hoger liggen; je technisch blad kan meer vragen.</p><h2>Hoe herstel ik mijn abonnement?</h2><p>Instellingen › Herstellen of „Aankopen herstellen” op de Plus-pagina.</p><h2>Hoe zeg ik op?</h2><p>iOS-instellingen › Apple ID › Abonnementen › Topfzeit Plus.</p><p class='note'>Topfzeit bevat geen fabrikantgegevens. Het technisch blad en het veiligheidsinformatieblad van je product gaan altijd voor; de correctie is alleen verhoudingsrekenen.</p><p><a href='../'>Privacy</a></p></section><section id='pl' lang='pl'><h1>Pomoc – Topfzeit</h1><p>Pytania, błędy lub pomysły? Napisz: <a href='mailto:utqsall@gmail.com'>utqsall@gmail.com</a></p><h2>Skąd pochodzą proporcje i czas przydatności?</h2><p>Wyłącznie z twojej karty technicznej. Topfzeit nie zawiera danych producentów; produkty „Przykład” to fikcyjne wartości demo.</p><h2>Jak liczy korekta?</h2><p>Składnik o największym udziale na część proporcji wyznacza nową skalę; pozostałe są uzupełniane. To tylko rachunek proporcji – o utwardzeniu decydują karta i producent.</p><h2>Jak liczony jest punkt rosy?</h2><p>Wzorem Magnusa (a = 17,62, b = 243,12 °C). Podłoże powinno być co najmniej 3 K cieplejsze; karta może wymagać więcej.</p><h2>Jak przywrócić subskrypcję?</h2><p>Ustawienia › Przywróć lub „Przywróć zakupy” na stronie Plus.</p><h2>Jak anulować?</h2><p>Ustawienia iOS › Apple ID › Subskrypcje › Topfzeit Plus.</p><p class='note'>Topfzeit nie zawiera danych producentów. Karta techniczna i karta charakterystyki produktu mają zawsze pierwszeństwo; korekta to wyłącznie rachunek proporcji.</p><p><a href='../'>Prywatność</a></p></section><section id='cs' lang='cs'><h1>Podpora – Topfzeit</h1><p>Dotazy, chyby nebo přání? Napiš nám: <a href='mailto:utqsall@gmail.com'>utqsall@gmail.com</a></p><h2>Odkud pochází mísicí poměr a doba zpracovatelnosti?</h2><p>Jen z tvého technického listu. Topfzeit neobsahuje data výrobců; produkty „Příklad“ jsou smyšlené demo hodnoty.</p><h2>Jak počítá korekce?</h2><p>Složka s největším podílem na díl poměru určí nové měřítko; ostatní se doplní. Jen výpočet poměru – o vytvrzení rozhoduje technický list a výrobce.</p><h2>Jak se počítá rosný bod?</h2><p>Magnusovým vzorcem (a = 17,62, b = 243,12 °C). Povrch má být aspoň 3 K nad ním; technický list může chtít víc.</p><h2>Jak obnovím předplatné?</h2><p>Nastavení › Obnovit nebo „Obnovit nákupy“ na stránce Plus.</p><h2>Jak zruším předplatné?</h2><p>Nastavení iOS › Apple ID › Předplatná › Topfzeit Plus.</p><p class='note'>Topfzeit neobsahuje data výrobců. Technický a bezpečnostní list tvého produktu mají vždy přednost; korekce je jen výpočet poměru.</p><p><a href='../'>Soukromí</a></p></section><section id='en' lang='en'><h1>Support – Topfzeit</h1><p>Questions, bugs or wishes? Write to us: <a href='mailto:utqsall@gmail.com'>utqsall@gmail.com</a></p><h2>Where do mixing ratio and pot life come from?</h2><p>Only from your data sheet. Topfzeit contains no manufacturer data; products marked “Example” are fictitious demo values.</p><h2>How does the correction calculate?</h2><p>The component with the largest amount per ratio part sets the new scale; the others are topped up. Ratio arithmetic only – whether a corrected batch cures is decided by the data sheet and the manufacturer.</p><h2>How is the dew point calculated?</h2><p>With the Magnus formula (a = 17.62, b = 243.12 °C). The surface should be at least 3 K above it; your data sheet may ask for more.</p><h2>How do I restore my subscription?</h2><p>Settings › Restore, or “Restore purchases” on the Plus page.</p><h2>How do I cancel?</h2><p>iOS Settings › Apple ID › Subscriptions › Topfzeit Plus.</p><p class='note'>Topfzeit contains no manufacturer data. Your product's technical data sheet and safety data sheet always take precedence; the correction is ratio arithmetic only.</p><p><a href='../'>Privacy</a></p></section></body></html>
